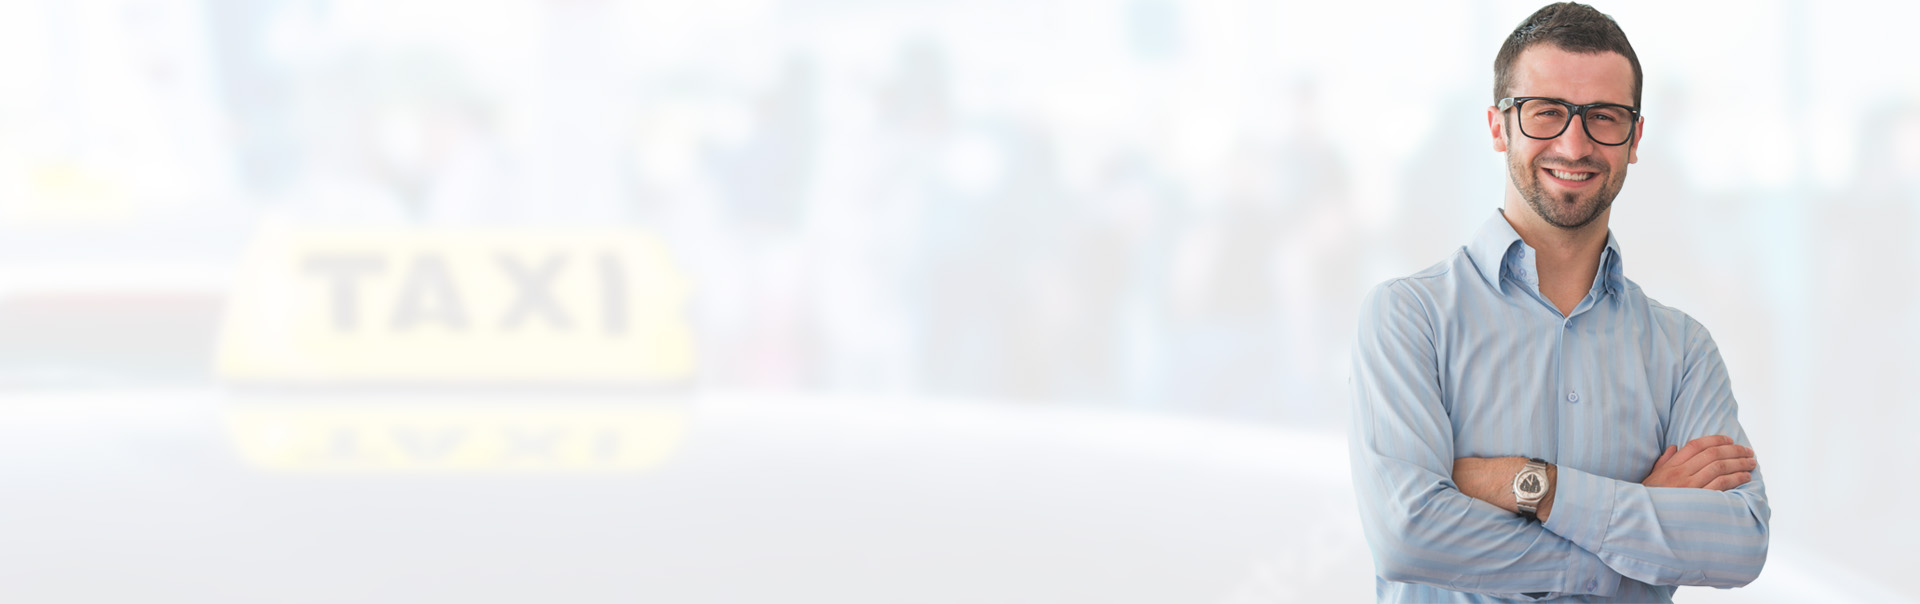
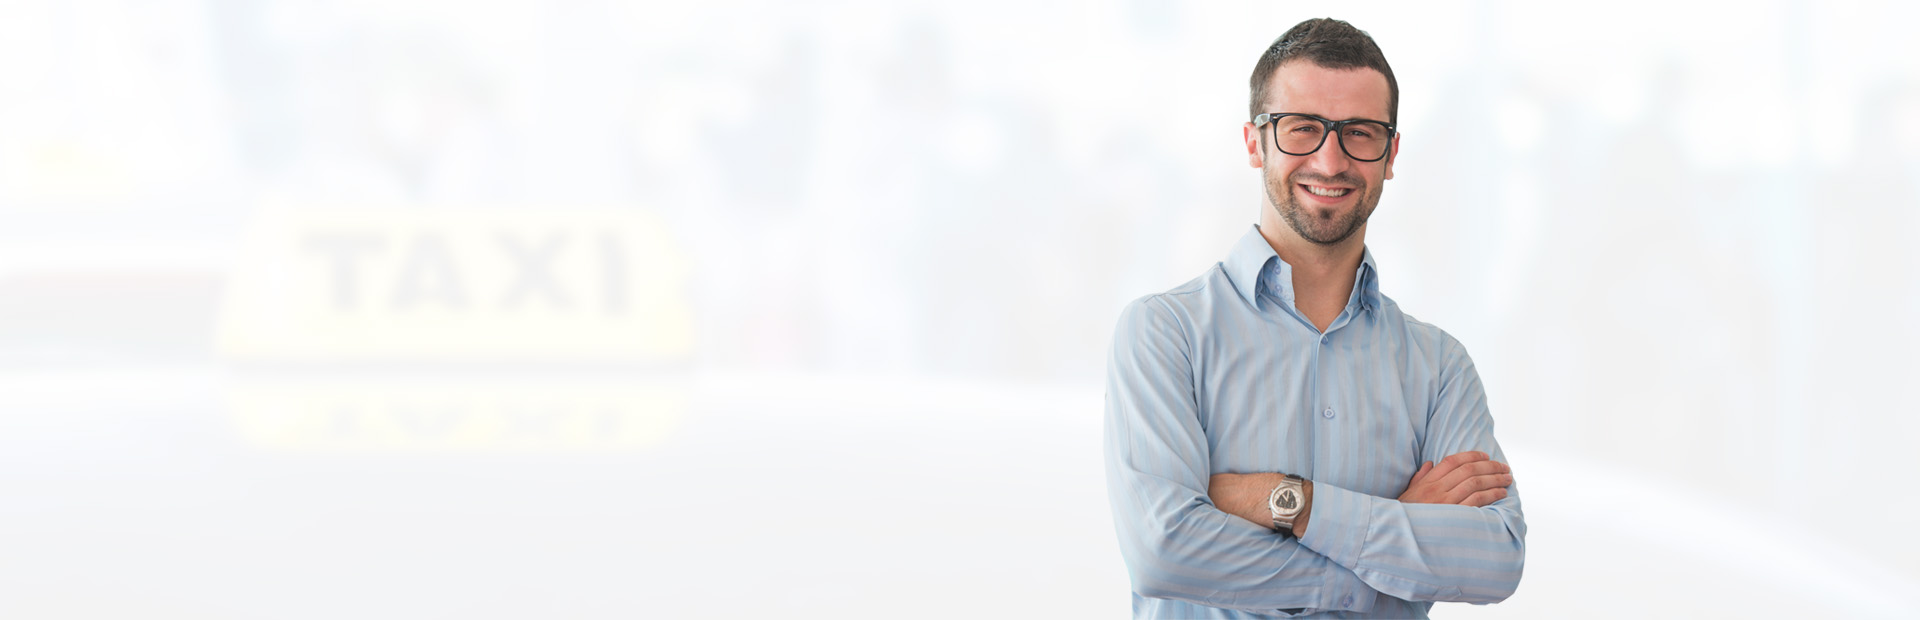
лицензия правка

Changed region(s): [[0.5625, 0.0, 0.9375, 1.0]]

diff --git a/css/style.css b/css/style.css
@@ -755,6 +755,9 @@ table.tariffs_table span{
    background-image: url(../pics/license_slider.jpg);
    background-repeat: no-repeat;
    background-position: top center;
+   -webkit-background-size: cover;
+   background-size: cover;
+   min-height: 689px;
    z-index: 1;
 }
 
@@ -770,7 +773,7 @@ table.tariffs_table span{
 #license_announce span:first-child  {
   font-size:   30px;
   text-transform: uppercase;
-  margin-top: 70px;
+  margin-top: 120px;
   text-shadow: 0px 2px 2px rgba(150, 150, 150, 1);
 
 }
@@ -783,19 +786,21 @@ table.tariffs_table span{
 #license_announce span:nth-child(3)  {
   font-size: 25px;
   margin-top: 35px;
+  text-shadow: 0px 1px 2px rgba(150, 150, 150, 1)
 }
 
 
 #license_text{
-  margin-top: 153px;
-  background-color: #000;
-  opacity: 0.6;
+  margin-top: 213px;
+  min-height: 138px;
+  background-color: rgba(0,0,0,0.6);
   color: white;
-  padding: 32px 20px 20px 20px;
+  display: flex;
+  align-items: center;
   text-align: center;
-  line-height: 36px;
-  font-family: "Open Sans";
-  font-size: 18px;
+  line-height: 26px;
+  font-family: 'OpenSansLight', sans-serif;
+  font-size: 19px;
 }
 
 /* ------- Row # 2 ----------- */
@@ -803,6 +808,7 @@ table.tariffs_table span{
 #license_second_row{
   background-color: #fff;
   background-image: url(../pics/license_image1.jpg);
+  height: 620px;
   background-repeat: no-repeat;
   background-position: top left;
   background-size: cover;
@@ -987,8 +993,7 @@ table.tariffs_table span{
  -webkit-border-radius:5px;
  -moz-border-radius:5px; 
  border-radius: 5px; 
- font:20px Tahoma, Geneva, sans-serif; 
- font-weight:bold; 
+ font:20px OpenSansBold; 
  color:#2e2e2e; 
  background-color:#ffef42; 
  background-image: -moz-linear-gradient(top, #ffef42 0%, #e7d31d 100%); 
@@ -1013,8 +1018,7 @@ table.tariffs_table span{
  -webkit-border-radius:5px;
  -moz-border-radius:5px; 
  border-radius: 5px; 
- font:20px Tahoma, Geneva, sans-serif; 
- font-weight:bold; 
+ font:20px OpenSansBold;  
  color:#e5ffff; 
  background:#eddc26; 
  -webkit-box-shadow:0px 0px 2px #eddc26, inset 0px 0px 1px #eddc26; 
@@ -1030,8 +1034,7 @@ table.tariffs_table span{
  -webkit-border-radius:5px;
  -moz-border-radius:5px; 
  border-radius: 5px; 
- font:20px Tahoma, Geneva, sans-serif; 
- font-weight:bold; 
+ font:20px OpenSansBold;  
  color:#e5ffff; 
  background-color: #d8c400;
  -webkit-box-shadow:0px 0px 2px #eddc26, inset 0px 0px 1px #eddc26; 
@@ -2042,7 +2045,9 @@ table.tariffs_table span{
 
   /* Убираем отступы */
   #license_text {
-    padding: 8px 0px 17px 0px !important;
+    padding: 8px !important;
+    margin-top: 265px;
+    font-size: 16px;
   }
   #license_fourth_row_block{
     padding-top: 25px;

diff --git a/license.html b/license.html
@@ -57,7 +57,7 @@
 			<div class="col-xs-12 col-sm-6 col-sm-offset-2" id="license_announce">
 				  	<span>Получение лицензии</span>
 				  	<span><b>для такси</b></span>
-				  	<span><b>Лицензия для такси без ИП и без оклейки авто в желтый цвет</b></span>
+				  	<span><b>Лицензия для такси без ИП<br/>и без оклейки авто в желтый цвет</b></span>
 			</div>
 		</div>
 
